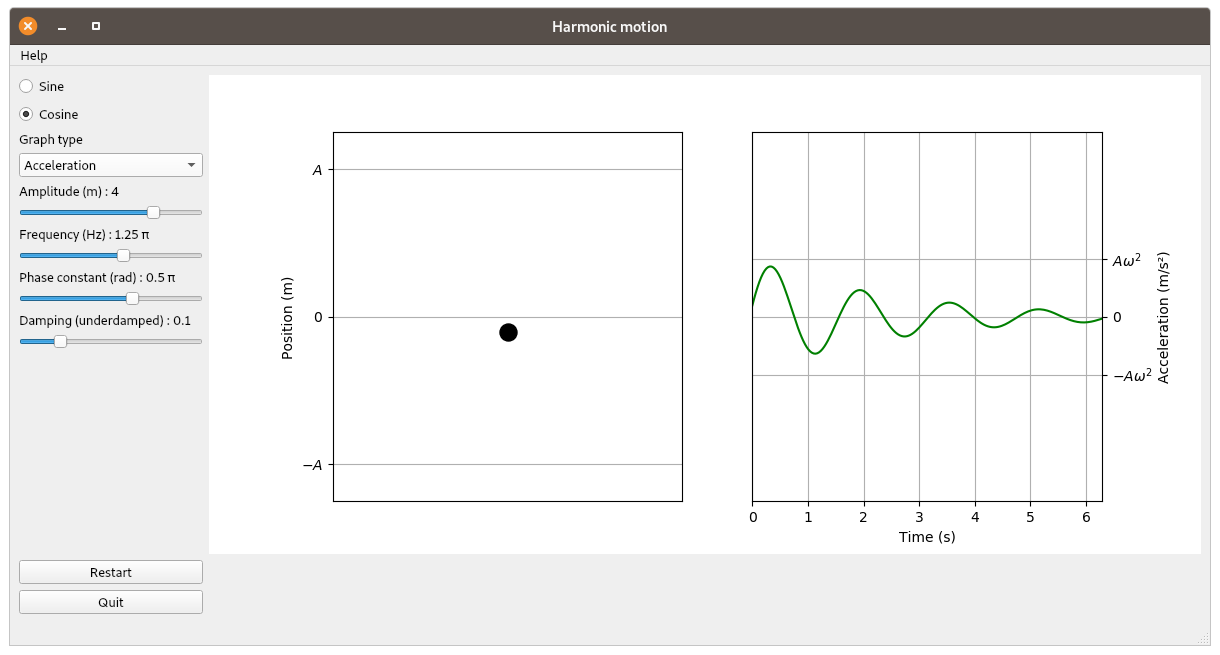
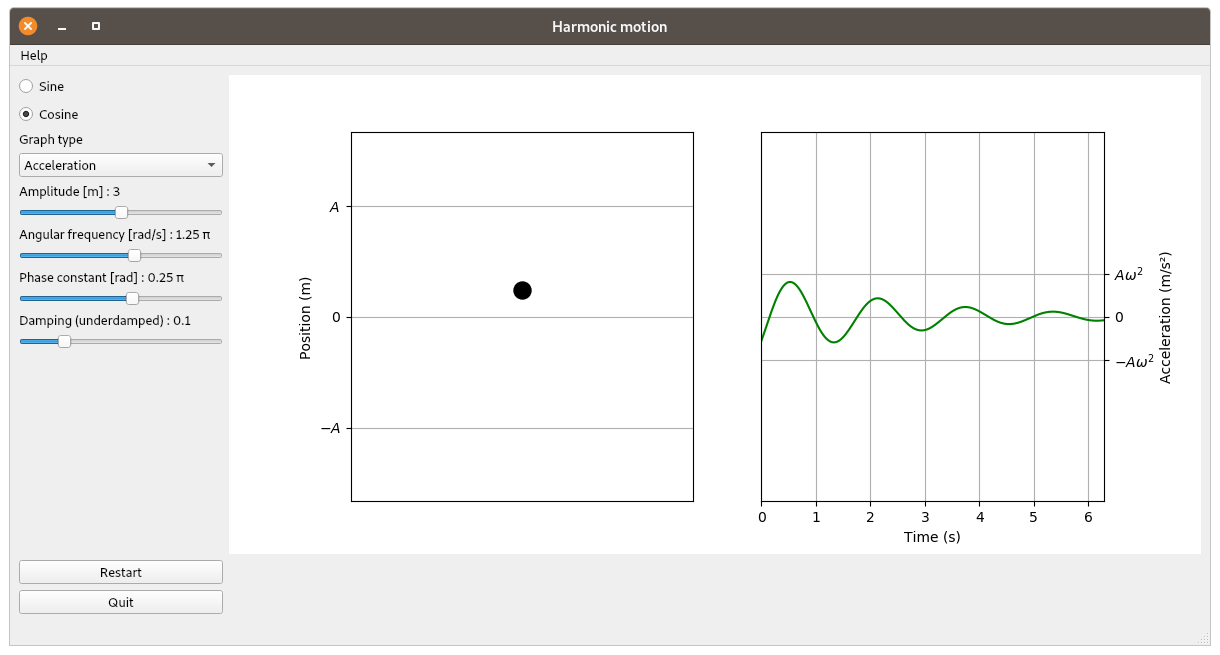
Unités / Units

diff --git a/fr_CA.ts b/fr_CA.ts
@@ -20,8 +20,8 @@
         <translation>Amplitude</translation>
     </message>
     <message>
-        <source>Fréquence</source>
-        <translation>Fréquence</translation>
+        <source>Fréquence angulaire</source>
+        <translation>Fréquence angulaire</translation>
     </message>
     <message>
         <source>Constante de phase</source>

diff --git a/en_CA.ts b/en_CA.ts
@@ -20,8 +20,8 @@
         <translation>Amplitude</translation>
     </message>
     <message>
-        <source>Fréquence</source>
-        <translation>Frequency</translation>
+        <source>Fréquence angulaire</source>
+        <translation>Angular frequency</translation>
     </message>
     <message>
         <source>Constante de phase</source>

diff --git a/harmonique_main_window.py b/harmonique_main_window.py
@@ -207,9 +207,9 @@ class Ui_MainWindow(object):
         self.pushButton_2.setText(self._translate("MainWindow", "Quitter"))
         self.pushButton_3.setText(self._translate("MainWindow", "Redémarrer"))
 #        self.pushButton.setText(self._translate("MainWindow", "Exporter en vidéo (.mp4)"))
-        self.label.setText(self._translate("MainWindow", "Amplitude") + " (m) : " + str(self.horizontalSlider.value()))
-        self.label_2.setText(self._translate("MainWindow", "Fréquence") + " (Hz) : " + str(self.horizontalSlider2.value()/4) + " \u03C0")
-        self.label_3.setText(self._translate("MainWindow", "Constante de phase") + " (rad) : " + str(self.horizontalSlider3.value()/4) + " \u03C0")
+        self.label.setText(self._translate("MainWindow", "Amplitude") + " [m] : " + str(self.horizontalSlider.value()))
+        self.label_2.setText(self._translate("MainWindow", "Fréquence angulaire") + " [rad/s] : " + str(self.horizontalSlider2.value()/4) + " \u03C0")
+        self.label_3.setText(self._translate("MainWindow", "Constante de phase") + " [rad] : " + str(self.horizontalSlider3.value()/4) + " \u03C0")
         self.label_4.setText(self._translate("MainWindow", "Amortissement") + " (" + self._translate("MainWindow", "sous-amorti") + ") : " + str(self.horizontalSlider4.value()/20))
         self.label_5.setText(self._translate("MainWindow", "Type de graphique"))
         self.radioButton.setText(self._translate("MainWindow", "Sinus"))
